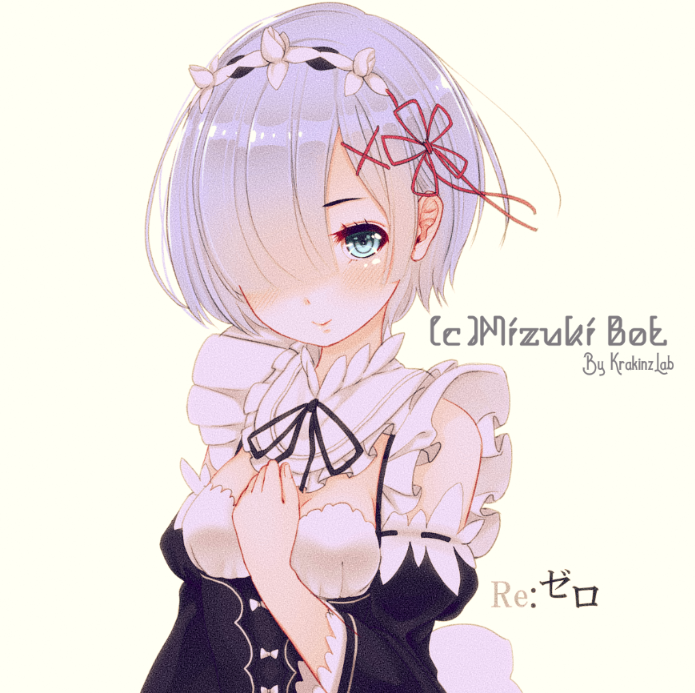
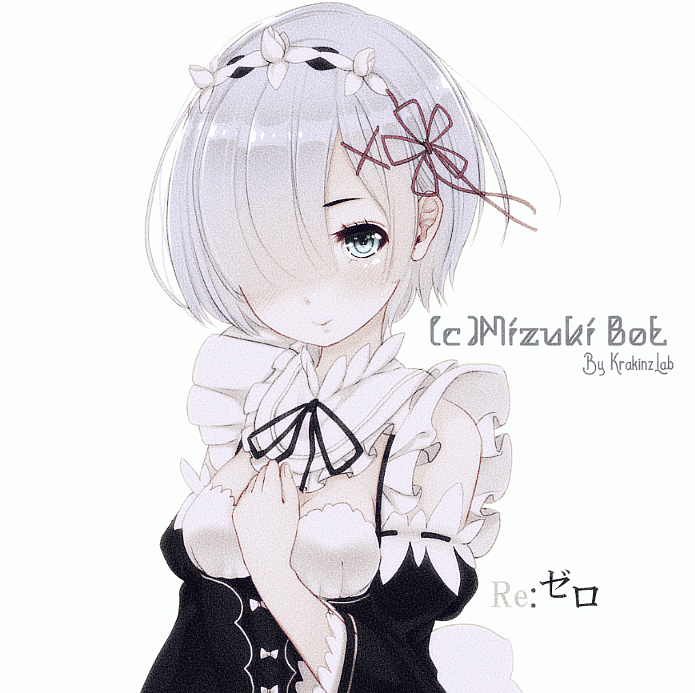
🍁 (c)爪𝖎𝖟𝖚ӄ𝖎 🍁v28.13

diff --git a/ʍɨʐʊӄɨ🛰ֆɛʀʋɛʀ/_𝔏𝔞𝔟_.js b/ʍɨʐʊӄɨ🛰ֆɛʀʋɛʀ/_𝔏𝔞𝔟_.js
@@ -53,7 +53,7 @@ const env = {
             ssl: { require: true, rejectUnauthorized: false },
           },
         }),
-  MEE: `https://i.postimg.cc/2y6rfynL/image.png`,
+  MEE: `https://i.postimg.cc/3wSjYGF7/image.png`,
   PRIVACY: process.env.PRIVACY === undefined ? `public` : process.env.PRIVACY,
 };
 module.exports = env;

diff --git a/README.md b/README.md
@@ -39,4 +39,4 @@ Apache License Version 2.0, January 2004 http://www.apache.org/licenses
 ```
 - [![Deploy](https://www.herokucdn.com/deploy/button.svg)](https://heroku.com/deploy?template=https://github.com/Krakinz/Mizuki.git/tree/KrakinzLab) - On Your Own! 
 
-<img align="centre" src="https://i.postimg.cc/wjPrhJh2/image.png">
+<img align="centre" src="https://i.postimg.cc/3wSjYGF7/image.png">
